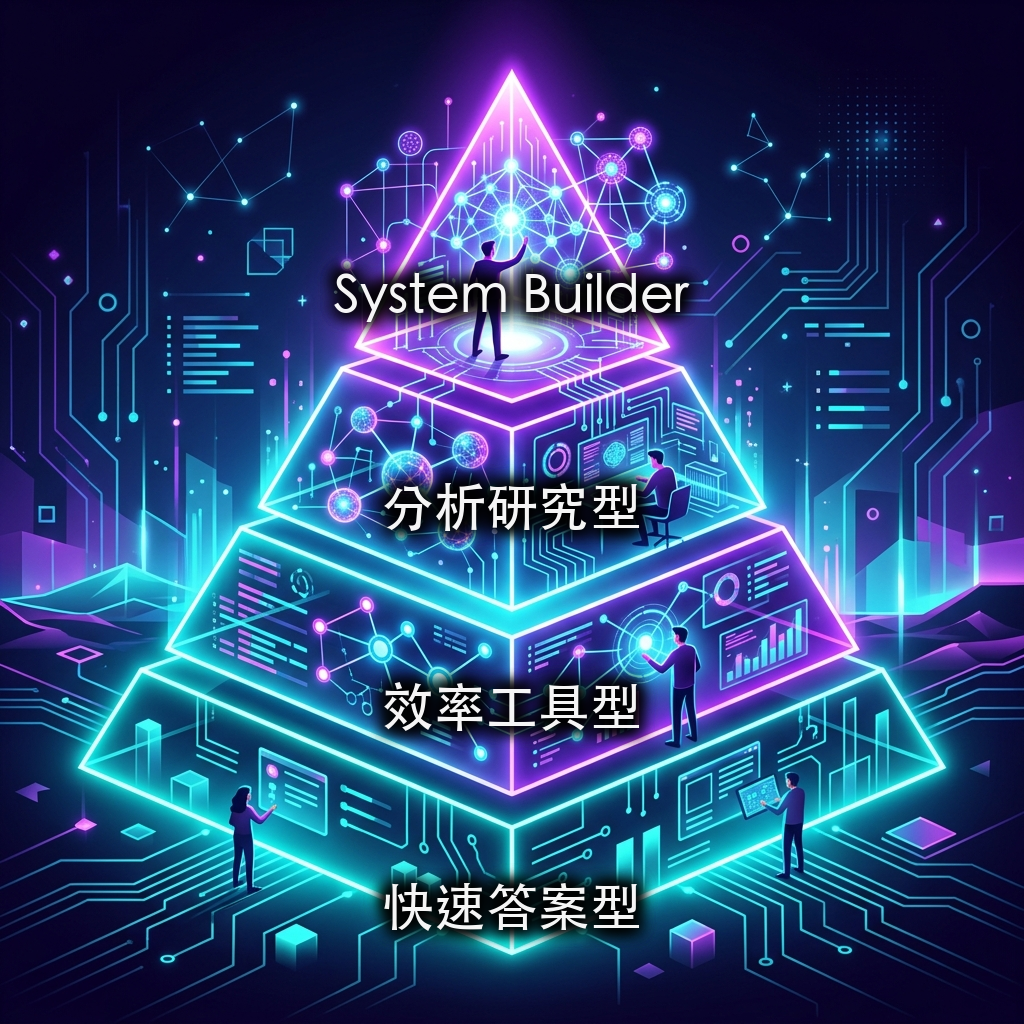
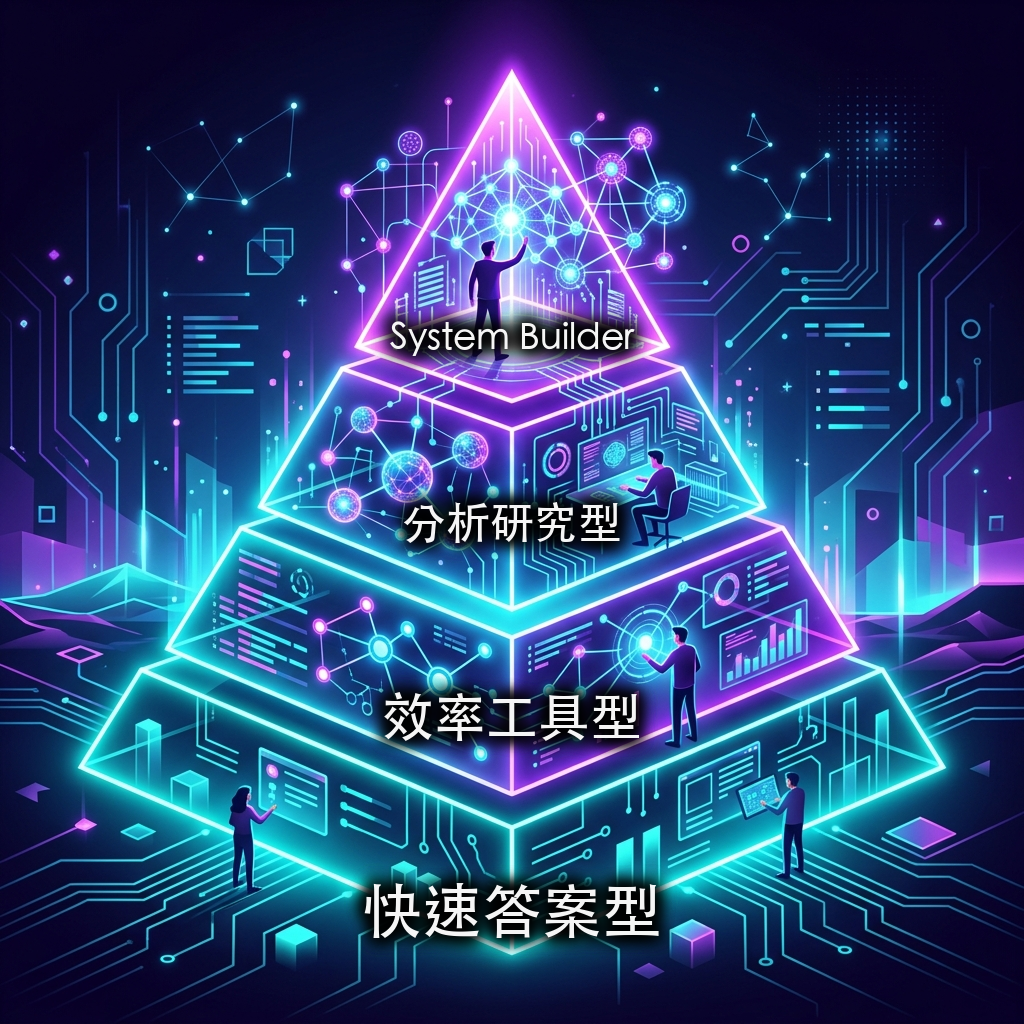
style(blog): scale text to fit pyramid perspective

diff --git a/add_text_ai_levels.py b/add_text_ai_levels.py
@@ -8,18 +8,13 @@ source_raw_path = "/Users/yuting/.gemini/antigravity/brain/ef23cb45-4062-4562-96
 try:
     img = Image.open(source_raw_path).convert("RGBA")
     
-    font_size = 52
-    try:
-        font = ImageFont.truetype(font_path, font_size)
-    except IOError:
-        print(f"Could not load font. Make sure {font_path} exists.")
-        exit(1)
+    font_path = "/System/Library/Fonts/STHeiti Medium.ttc"
     
     levels = [
-        {"text": "System Builder", "y": 270},
-        {"text": "分析研究型", "y": 480},
-        {"text": "效率工具型", "y": 680},
-        {"text": "快速答案型", "y": 880}
+        {"text": "System Builder", "y": 320,  "size": 36},
+        {"text": "分析研究型",      "y": 500,  "size": 44},
+        {"text": "效率工具型",      "y": 690,  "size": 52},
+        {"text": "快速答案型",      "y": 880,  "size": 60}
     ]
     
     image_width = img.size[0]
@@ -31,6 +26,7 @@ try:
     # Draw thick shadow text to make it legible against bright background
     for level in levels:
         text = level["text"]
+        font = ImageFont.truetype(font_path, level["size"])
         bbox = font.getbbox(text)
         text_w = bbox[2] - bbox[0]
         x = (image_width - text_w) / 2
@@ -52,6 +48,7 @@ try:
     
     for level in levels:
         text = level["text"]
+        font = ImageFont.truetype(font_path, level["size"])
         bbox = font.getbbox(text)
         text_w = bbox[2] - bbox[0]
         x = (image_width - text_w) / 2

diff --git a/link-blog/content/posts/personal-ai-os.md b/link-blog/content/posts/personal-ai-os.md
@@ -17,7 +17,7 @@ cover:
 
 ## 一、 了解自己在哪個階段：AI 使用者的四個層次
 
-![AI 使用者的四個層次](/images/ai-users-levels.png?v=3)
+![AI 使用者的四個層次](/images/ai-users-levels.png?v=4)
 
 在目前的 AI 應用生態中，我們大致可以將使用者的層次與特質分為以下四類：
 
